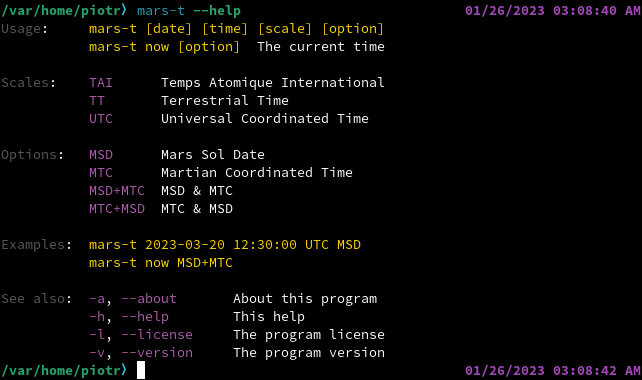
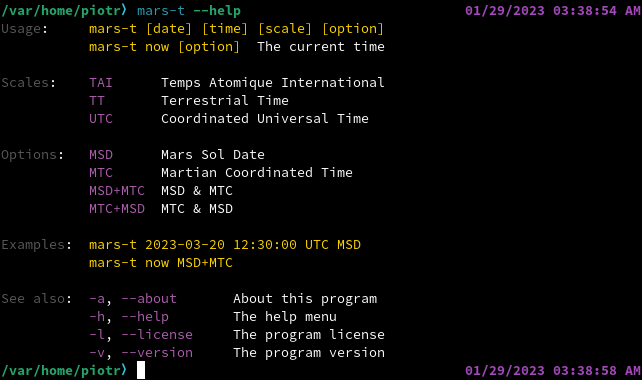
Add files via upload

diff --git a/src/info.rs b/src/info.rs
@@ -9,8 +9,8 @@
 
 pub fn about(reset: &str, blue_underlined: &str, grey: &str, yellow: &str) {
     println!("{}", grey.to_owned() + "Program" + reset + ":  " + yellow + "mars-t" + reset);
-    println!("{}", grey.to_owned() + "Version" + reset + ":  0.2.0");
-    println!("{}", grey.to_owned() + "Date" + reset + ":     January 27, 2023");
+    println!("{}", grey.to_owned() + "Version" + reset + ":  0.2.1");
+    println!("{}", grey.to_owned() + "Date" + reset + ":     January 29, 2023");
     println!("{}", grey.to_owned() + "Author" + reset + ":   Piotr Bajdek");
     println!("{}", grey.to_owned() + "Contact" + reset + ":  " + blue_underlined + "piotr.bajdek@proton.me" + reset);
     println!("{}", grey.to_owned() + "Source" + reset + ":   " + blue_underlined + "https://github.com/piotrbajdek/mars-t" + reset);
@@ -23,7 +23,7 @@ pub fn help(reset: &str, grey: &str, violet: &str, yellow: &str) {
     println!();
     println!("{}", grey.to_owned() + "Scales" + reset + ":    " + violet + "TAI" + reset + "      Temps Atomique International" + violet);
     println!("           TT{}", reset.to_owned() + "       Terrestrial Time" + violet);
-    println!("           UTC{}", reset.to_owned() + "      Universal Coordinated Time");
+    println!("           UTC{}", reset.to_owned() + "      Coordinated Universal Time");
     println!();
     println!("{}", grey.to_owned() + "Options" + reset + ":   " + violet + "MSD" + reset + "      Mars Sol Date" + violet);
     println!("           MTC{}", reset.to_owned() + "      Martian Coordinated Time" + violet);
@@ -34,14 +34,14 @@ pub fn help(reset: &str, grey: &str, violet: &str, yellow: &str) {
     println!("           mars-t now MSD+MTC");
     println!();
     println!("{}", grey.to_owned() + "See also" + reset + ":  " + violet + "-a" + reset + ", " + violet + "--about" + reset + "       About this program");
-    println!("           {}", violet.to_owned() + "-h" + reset + ", " + violet + "--help" + reset + "        This help");
+    println!("           {}", violet.to_owned() + "-h" + reset + ", " + violet + "--help" + reset + "        The help menu");
     println!("           {}", violet.to_owned() + "-l" + reset + ", " + violet + "--license" + reset + "     The program license");
     println!("           {}", violet.to_owned() + "-v" + reset + ", " + violet + "--version" + reset + "     The program version");
 }
 
 pub fn version(reset: &str, grey: &str, yellow: &str) {
-    println!("{}", grey.to_owned() + "Version" + reset + ": " + yellow + "0.2.0" + reset);
-    println!("January 27, 2023");
+    println!("{}", grey.to_owned() + "Version" + reset + ": " + yellow + "0.2.1" + reset);
+    println!("January 29, 2023");
 }
 
 pub fn license(reset: &str, yellow: &str) {

diff --git a/README.md b/README.md
@@ -1,18 +1,20 @@
 # MARS-T
 
-**A reusable library and a CLI application to facilitate the colonisation of Mars**
+**A comprehensive library and command-line interface (CLI) tool designed to aid in the colonisation of Mars, by providing reusable resources and functionalities**
 
-[mars-t](https://github.com/piotrbajdek/mars-t) calculates the date and time on Mars based on an Earth's UTC, TAI or TT.
+[mars-t](https://github.com/piotrbajdek/mars-t) determines the date and time on Mars by utilising Earth's Coordinated Universal Time (UTC), International Atomic Time (TAI), or Terrestrial Time (TT).
+
+It provides two types of time:
 
 **1.** Mars Sol Date (MSD)
 
-**2.** Martian Coordinated Time (MTC) / Airy Mean Time (AMT)
+**2.** Martian Coordinated Time (MTC)/ Airy Mean Time (AMT)
 
 # USAGE
 
 ![help-image](https://github.com/piotrbajdek/mars-t/blob/main/docs/images/help-image.png?raw=true)
 
-It is moreover possible to link against mars-t using its library as a dependency for other astronomical projects (see [public functions](https://docs.rs/mars-t/0.2.0/mars_t/all.html#functions)).
+It is moreover possible to link against mars-t using its library as a dependency for other astronomical projects (see [public functions](https://docs.rs/mars-t/0.2.1/mars_t/all.html#functions)).
 
 # EXAMPLES
 
@@ -20,64 +22,60 @@ It is moreover possible to link against mars-t using its library as a dependency
 
 # INSTALLATION ON LINUX
 
-[mars-t](https://github.com/piotrbajdek/mars-t) should run smoothly on **Windows** and **macOS**, and can be installed by the use of [cargo](https://www.rust-lang.org/tools/install). Yet, it is being developed and primarily tested on **Fedora Linux**.
+[mars-t](https://github.com/piotrbajdek/mars-t) is designed to be compatible with **Windows** and **macOS**, and can be easily installed using [cargo](https://www.rust-lang.org/tools/install). However, the primary development and testing environment for mars-t is **Fedora Linux**.
 
-mars-t v0.2.0:
+The current version of mars-t (v0.2.1) has been verified to work properly on Fedora Linux 37 and Ubuntu 22.10.
 
-– Was successfully tested on Fedora Linux 37, openSUSE Tumbleweed, and Ubuntu 22.10.
+## METHOD 1 – USING CARGO
 
-– Failed to run on Mageia 8 due to an old glibc version (required ≥2.34).
+**[Recommended for programmers]**
 
-## METHOD 1 – BY THE USE OF CARGO
-
-**[recommended for programmers]**
-
-**1.** Install from crates.io by the use of cargo:
+**1.** To install mars-t from [crates.io](https://crates.io/crates/mars-t), use the following cargo command:
 
 _cargo install mars-t_
 
-By default, the file will be downloaded to `.cargo/bin/`, a hidden folder in your home directory.
+The executable will be saved in the hidden `.cargo/bin/` directory within your home directory.
 
-**2a.** For convenience, you will probably want to copy mars-t to `/usr/bin/` as in Method 2 (3a, 3b).
+**2a.** For easy access, you may want to copy the mars-t file to the `/usr/bin/` directory. This can be done by following the instructions in Method 2 (3a, 3b).
 
-**2b.** Alternatively, add `~/.cargo/bin` directory to your PATH variable (can be set up by [rustup](https://www.rust-lang.org/tools/install)).
+**2b.** As an alternative, you can add the `~/.cargo/bin/` directory to your system's PATH variable, which can be configured using [rustup](https://www.rust-lang.org/tools/install).
 
-## METHOD 2 – LINUX UNIVERSAL BINARIES
+## METHOD 2 – UNIVERSAL LINUX BINARIES
 
-**1.** Download the distro-independent [binary](https://github.com/piotrbajdek/mars-t/releases/download/v0.2.0/mars-t) of mars-t from GitHub.
+**1.** To install mars-t, first download the distro-independent [binary](https://github.com/piotrbajdek/mars-t/releases/download/v0.2.1/mars-t) from GitHub.
 
-**2.** Make the file executable:
+**2.** Then, make the file executable by running the command:
 
 _sudo chmod +x ./mars-t_
 
-**3a.** On most Linux distros, install mars-t via copying the binary to `/usr/bin/`:
+**3a.** On most Linux distributions, install mars-t by copying the binary to `/usr/bin/`:
 
 _sudo cp mars-t /usr/bin/_
 
-**3b.** On Fedora Silverblue / Kinoite:
+**3b.** For Fedora Silverblue / Kinoite, use this command:
 
 _sudo cp mars-t /var/usrlocal/bin/_
 
 ## METHOD 3 – DISTRO-SPECIFIC PACKAGES
 
-**[recommended for most users]**
+**[Recommended for most users]**
 
-Distro-specific packages are also available for download for [.rpm](https://github.com/piotrbajdek/mars-t/releases/download/v0.2.0/mars-t-0.2.0-1.x86_64.rpm)- and [.deb](https://github.com/piotrbajdek/mars-t/releases/download/v0.2.0/mars-t_0.2.0_amd64.deb)-based Linux distros. Installation instructions:
+Distro-specific packages for [.rpm](https://github.com/piotrbajdek/mars-t/releases/download/v0.2.1/mars-t-0.2.1-1.x86_64.rpm) and [.deb](https://github.com/piotrbajdek/mars-t/releases/download/v0.2.1/mars-t_0.2.1_amd64.deb)-based Linux distributions are also available for download. To install mars-t on different Linux distributions, follow these instructions:
 
 Fedora Linux / RHEL / openSUSE:
 
-_sudo rpm -i mars-t-0.2.0-1.x86_64.rpm_
+_sudo rpm -i mars-t-0.2.1-1.x86_64.rpm_
 
 Fedora Silverblue / Kinoite:
 
-_rpm-ostree install mars-t-0.2.0-1.x86_64.rpm_
+_rpm-ostree install mars-t-0.2.1-1.x86_64.rpm_
 
 Ubuntu:
 
-_sudo dpkg -i mars-t_0.2.0_amd64.deb_
+_sudo dpkg -i mars-t_0.2.1_amd64.deb_
 
 ## METHOD 4 – MANUAL COMPILATION
 
-Download and unpack the mars-t [source](https://github.com/piotrbajdek/mars-t/archive/refs/tags/v0.2.0.zip) from GitHub. Then, build and install the program:
+First, download and unpack the mars-t [source code](https://github.com/piotrbajdek/mars-t/archive/refs/tags/v0.2.1.zip) from GitHub. Next, to build and install the program, use the command:
 
 _cargo build \--release && sudo cp target/release/mars-t /usr/bin/_
